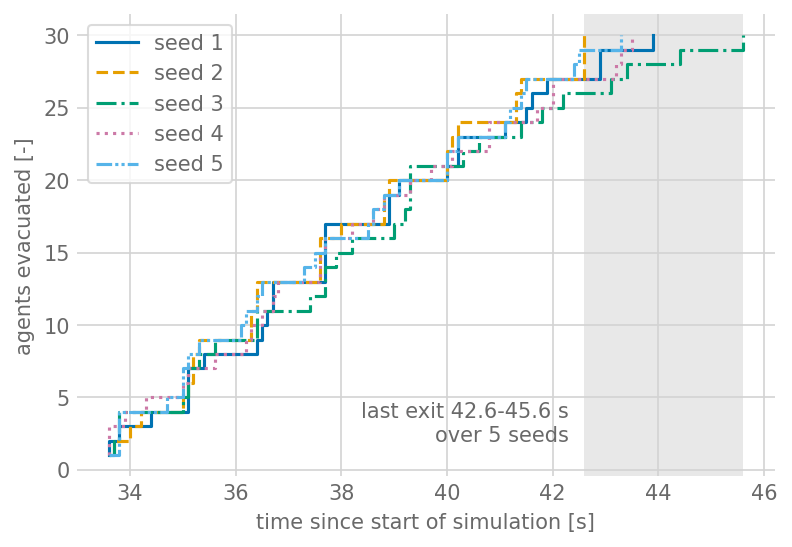
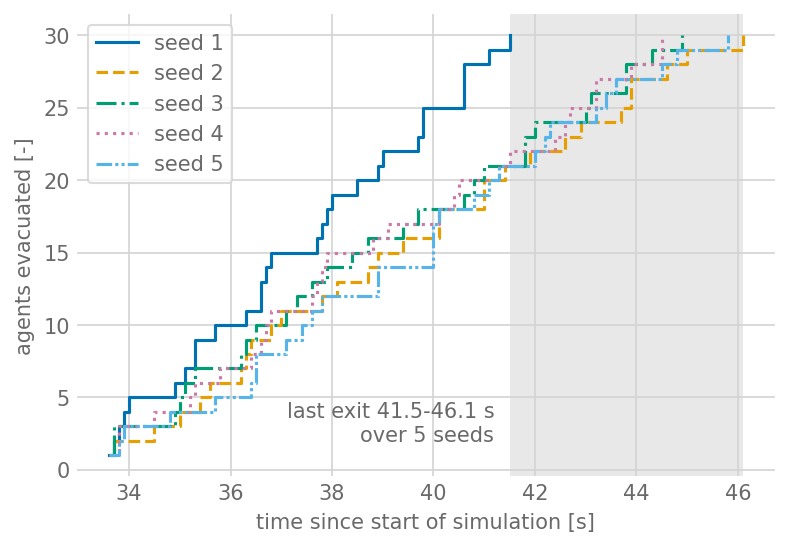
docs: re-run the single-run numbers on the rebased code
After the rebase onto #385 the documented numbers combine the hashed
per-distribution seeds with the exit polygon rule. Re-ran the cheap
documented commands and restored the #385 text that the conflict
resolution had dropped (the web GUI run-code steps and the ISO Test 18
social force notes). Against main:

- install, quickstart: clear 79.01 -> 79.26 s, K = 3: 104.09 ->
  104.42 s
- walkthrough, web GUI: 78.21 / 85.05 -> 78.47 / 85.32 s, ratio
  1.0875 -> 1.0873
- RSET how-to: seeds 1-5 last exit 41.9/45.0/44.9/44.6/45.7 ->
  41.5/46.1/44.9/44.5/45.8 s, mean 44.4 -> 44.6 s, SD 1.5 -> 1.8 s,
  95th percentile 45.6 -> 46.0 s; figure regenerated

Unchanged, checked: usage (t_junction 144/150) and the web GUI
run-code steps (blind_spawn_discovery, 28/30 at 300 s).

diff --git a/docs/web-gui.md b/docs/web-gui.md
@@ -92,7 +92,7 @@ growth, stay empty for this one-agent corridor.
 [![A Plotly chart titled Smoke, with time from 0 to 85 s on the horizontal axis, the speed factor on the left axis between 0.9196262 and 0.9196266, and the extinction coefficient K on the right axis between 0.995502 and 0.995507 per metre. Both lines are flat until about 50 s and then vary in their last digits](/images/web-gui/smoke_chart.png "The Smoke chart of the same run. K is uniform at about 1 1/m, so the axes zoom in on changes in the sixth and seventh decimal places.")](images/web-gui/smoke_chart.png)
 
 {{< checkpoint title="The run finished" >}}
-The agent leaves the corridor after 85.4 s, and the run reports 1 of 1
+The agent leaves the corridor after 85.3 s, and the run reports 1 of 1
 agent evacuated. The **Warning** box says that FED is disabled: this deck
 writes only the soot extinction slice, no CO, CO₂ or O₂, so the warning is
 expected here. The same run from the command line,
@@ -102,7 +102,7 @@ uv run python run.py --scenario assets/iso_table21_coupled \
     --fds-dir assets/iso_table21_coupled/fds
 ```
 
-ends with `Simulation finished in 85.43 s (1/1 evacuated).`
+ends with `Simulation finished in 85.32 s (1/1 evacuated).`
 {{< /checkpoint >}}
 
 ### Keep the run as a script
@@ -252,6 +252,11 @@ Both open a dialog with **Copy** and **Download .py**.
 
 [![Dialog titled "Code for run #1 · blind_spawn_discovery" with its start time and a RUN #1 badge. Below it the line "Status: Complete: all agents evacuated (30/30), evacuation time 55.14 s", five notices on packages, files not included, paths, outputs and reproducibility, a collapsed "Details" line, and the start of the script: comment lines with the pyfds-evac version, git commit, run number, start time and scenario, followed by the imports](/images/web-gui/run_code_dialog.png "The run-code dialog for run #1 of blind_spawn_discovery.")](images/web-gui/run_code_dialog.png)
 
+The screenshot predates the per-distribution seeds of
+[#360](https://github.com/PedestrianDynamics/pyFDS-Evac/issues/360); the
+same run now ends as described in the steps below
+([#384](https://github.com/PedestrianDynamics/pyFDS-Evac/issues/384)).
+
 ### Save a run and run it again
 
 1. In the scenario picker, choose the plain `blind_spawn_discovery` entry,
@@ -259,8 +264,8 @@ Both open a dialog with **Copy** and **Download .py**.
    settings.
 2. When the run has finished, click **Show Python for this run**. The dialog
    is titled "Code for run #1 · blind_spawn_discovery · *start time*" and
-   reports "Status: Complete: all agents evacuated (30/30), evacuation time
-   55.17 s".
+   reports "Status: Incomplete: time limit reached (2 of 30 remaining),
+   simulated time 300.00 s".
 3. Click **Download .py**. The file is named after the scenario, the run
    number and the run's UTC start time, for example
    `pyfds_evac_blind_spawn_discovery_run1_20260929T182009Z.py`.
@@ -277,7 +282,7 @@ After the model's own progress and log lines, the script ends with
 (pyfds-evac 0.1.0 at commit `ba4ade3`; path shortened):
 
 ```text
-Simulation finished in 55.17 s (30/30 evacuated).
+Simulation stopped after 300.00 s (28/30 evacuated, 2 remaining).
 Trajectory SQLite: /…/pyfds_evac_blind_spawn_discovery_run1_20260929T182009Z_output/trajectory.sqlite
 ```
 

diff --git a/site/content/verification/iso-test-18.md b/site/content/verification/iso-test-18.md
@@ -116,7 +116,7 @@ the gap to 0.9955.
 
 Every run records the factor of the law, and the occupant walks at that
 speed. Over the middle 40 m of the corridor, the speed along its path matches
-\(f v_0\) to 9.9 × 10⁻⁶.
+\(f v_0\) to 9.8 × 10⁻⁶.
 
 ![Left: simulated egress-time ratio against 1/f(K). Right: each smoky egress time minus the expected time, with its tolerance](/images/verification/iso18_ratio.png)
 
@@ -141,7 +141,7 @@ speed. Over the middle 40 m of the corridor, the speed along its path matches
 | walked speed / \(f v_0\) | 1 | 1 − 9.9 × 10⁻⁶ at worst |
 | egress time | \(t_{\mathrm{pred}}\) within the tolerance | all 10 inside, largest +0.013 s on 214 s |
 
-The simulated ratio is always a little below 1/*f*, by up to 0.61 % at
+The simulated ratio is always a little below 1/*f*, by up to 0.59 % at
 *K* = 10. That is the start-up time *a*: it does not scale with 1/*f*, so
 \(t_{\mathrm{smoke}}/t_{\mathrm{clear}} \cdot f - 1 = -a(1-f)/t_{\mathrm{clear}}\),
 which predicts −0.62 % at *K* = 10. Once *a* is taken from the clear runs, each egress time
@@ -158,7 +158,7 @@ and matches the ratio to 5 × 10⁻⁵.
 2. **Speed.** The speed along the path over the middle 40 m equals
    \(f v_0\) within 10⁻⁵. This tolerance is a margin, not derived. The
    collision-free model walks exactly at \(f v_0\); the social force model
-   walks 3.8 to 9.9 × 10⁻⁶ slower, a property of the movement model. The
+   walks 2.2 to 9.8 × 10⁻⁶ slower, a property of the movement model. The
    smallest error the check must catch, a factor not applied at *K* = 0.5,
    is 1 − *f* = 4 %, four orders of magnitude larger.
 3. **Egress time.** Each egress time is a whole number of time steps
@@ -248,8 +248,8 @@ this page, made on the branch of
   *current* position and time
   ([#24](https://github.com/PedestrianDynamics/pyFDS-Evac/issues/24)).
 - No run reaches the floor *f* = 0.1 (*K* ≥ 11.15 1/m).
-- In the social force runs the occupant spawns 0.36 m from the back wall.
-  The wall push briefly takes it above \(f v_0\) at the start (0.57 m/s at
+- In the social force runs the occupant spawns 0.47 m from the back wall.
+  The wall push briefly takes it above \(f v_0\) at the start (0.34 m/s at
   *K* = 10, against 0.24 m/s). This is movement-model behaviour; the time
   criterion absorbs it through the start-up time *a* of the clear runs.
 - One occupant per condition, one seed. The ISO test asks for no more, but

diff --git a/docs/howto-rset-ensemble.md b/docs/howto-rset-ensemble.md
@@ -144,11 +144,11 @@ Expected output, without the `Evacuated 30/30 … done` progress line that
 
 ```text
 jps-distributions_0: 30 agents, use_premovement=False
-seed 1: last exit 43.9 s, evacuated 30, incapacitated 0, remaining 0
-seed 2: last exit 42.6 s, evacuated 30, incapacitated 0, remaining 0
-seed 3: last exit 45.6 s, evacuated 30, incapacitated 0, remaining 0
-seed 4: last exit 43.5 s, evacuated 30, incapacitated 0, remaining 0
-seed 5: last exit 43.3 s, evacuated 30, incapacitated 0, remaining 0
+seed 1: last exit 41.5 s, evacuated 30, incapacitated 0, remaining 0
+seed 2: last exit 46.1 s, evacuated 30, incapacitated 0, remaining 0
+seed 3: last exit 44.9 s, evacuated 30, incapacitated 0, remaining 0
+seed 4: last exit 44.5 s, evacuated 30, incapacitated 0, remaining 0
+seed 5: last exit 45.8 s, evacuated 30, incapacitated 0, remaining 0
 versions: {'pyfds-evac': '0.1.0', 'jupedsim': '1.4.2', 'fdsreader': '1.11.7', 'fdsvismap': '0.2.1'}
 git: b42f07ef4865142d55f3ff9e0e642370f0cb7b56, dirty: True
 ```
@@ -173,9 +173,9 @@ print(f"95th percentile = {np.percentile(last, 95):.1f} s")
 
 ```text
 n = 5 seeds
-mean = 43.8 s, SD = 1.1 s
-min-max = 42.6-45.6 s
-95th percentile = 45.3 s
+mean = 44.6 s, SD = 1.8 s
+min-max = 41.5-46.1 s
+95th percentile = 46.0 s
 ```
 
 **Five seeds are too few for a study.** They keep this example fast. The SD and
@@ -224,7 +224,7 @@ of this site, so running it changes your checkout; restore it with
 `git checkout -- site/static/images/howto/egress_exit_curve.png`
 ([#312](https://github.com/PedestrianDynamics/pyFDS-Evac/issues/312)).
 
-![Five step curves of agents evacuated against time, one per seed in its own colour and line style; each rises from 1 near 34 s to 30 between 42 and 46 s, and a grey band spans the range of last exit times](/images/howto/egress_exit_curve.png)
+![Five step curves of agents evacuated against time, one per seed in its own colour and line style; each rises from 1 near 34 s to 30 between 41 and 46 s, and a grey band spans the range of last exit times](/images/howto/egress_exit_curve.png)
 
 *Cumulative number of agents evacuated [-] against time since the start of the
 simulation [s], `assets/fic_vs_fed_speed`, N = 30 agents, clear air, no

diff --git a/docs/walkthrough.md b/docs/walkthrough.md
@@ -140,11 +140,11 @@ print(f"          fds_version={manifest['fds_version']}")
 Expected output:
 
 ```text
-Evacuated 1/1  sim=78.6s  wall=0m00s  done
-Evacuated 1/1  sim=85.4s  wall=0m00s  done
+Evacuated 1/1  sim=78.5s  wall=0m00s  done
+Evacuated 1/1  sim=85.3s  wall=0m00s  done
 K sampled:    0.99550 1/m
 speed factor: 0.919626
-exit time:    78.56 s clear, 85.43 s in smoke
+exit time:    78.47 s clear, 85.32 s in smoke
 manifest: fds_dir=/…/fds-evac/assets/iso_table21_coupled/fds
           fds_version=FDS-6.10.1-0-g12efa16-release
 ```
@@ -155,7 +155,7 @@ The manifest stores `fds_dir` as an absolute path; it is shortened here.
 nearest to `slice_height_m` (default 1.6 m). The deck prescribes a soot density
 that gives *K* = 1.0 1/m. The slice returns 0.99550 1/m, and the default speed
 law turns it into a speed factor of 0.919626. The ratio of the exit times,
-85.43 / 78.56 = 1.0874, matches 1 / 0.919626 = 1.0874 to within 0.01 %.
+85.32 / 78.47 = 1.0873, matches 1 / 0.919626 = 1.0874 to within 0.01 %.
 
 `ExtinctionField.from_fds` remembers the directory it read. The run manifest
 records that directory and reads the FDS version from the `FDSVERSION` line of

diff --git a/docs/quickstart.md b/docs/quickstart.md
@@ -73,8 +73,8 @@ print(f"clear air:   {clear.evacuation_time:.2f} s")
 
 {{< checkpoint title="Clear-air run completed" >}}
 ```text
-Evacuated 1/1  sim=79.2s  wall=0m00s  done
-clear air:   79.19 s
+Evacuated 1/1  sim=79.3s  wall=0m00s  done
+clear air:   79.26 s
 ```
 
 The agent reached the exit in about 79 s. `run_scenario` prints the
@@ -102,14 +102,14 @@ print(f"K = {K_PER_M} 1/m: {smoky.evacuation_time:.2f} s")
 
 {{< checkpoint title="Smoke run completed" >}}
 ```text
-Evacuated 1/1  sim=104.3s  wall=0m00s  done
-K = 3.0 1/m: 104.32 s
+Evacuated 1/1  sim=104.4s  wall=0m00s  done
+K = 3.0 1/m: 104.42 s
 ```
 
 The same evacuation now takes about 104 s instead of 79 s.
 {{< /checkpoint >}}
 
-{{< comparison label-a="Clear air" value-a="79.19" label-b="Smoke, K = 3 1/m" value-b="104.32" unit="s" >}}
+{{< comparison label-a="Clear air" value-a="79.26" label-b="Smoke, K = 3 1/m" value-b="104.42" unit="s" >}}
 
 In this example, one agent in one corridor, the evacuation time grows by about
 a third. Other scenarios change by other amounts.

diff --git a/docs/install.md b/docs/install.md
@@ -46,7 +46,7 @@ uv run python run.py --scenario assets/ISO-table21 --cleanup
 The last line reads:
 
 ```text
-Simulation finished in 79.19 s (1/1 evacuated).
+Simulation finished in 79.26 s (1/1 evacuated).
 ```
 
 One agent walks the ISO 20414 Test 18 corridor in clear air. If you see this

diff --git a/docs/usage.md b/docs/usage.md
@@ -239,7 +239,7 @@ uv run python run.py --scenario assets/t_junction/config.json --cleanup
 ```
 
 ```text
-Simulation stopped after 300.00 s (143/150 evacuated, 7 remaining).
+Simulation stopped after 300.00 s (144/150 evacuated, 6 remaining).
 ```
 
 ```bash
